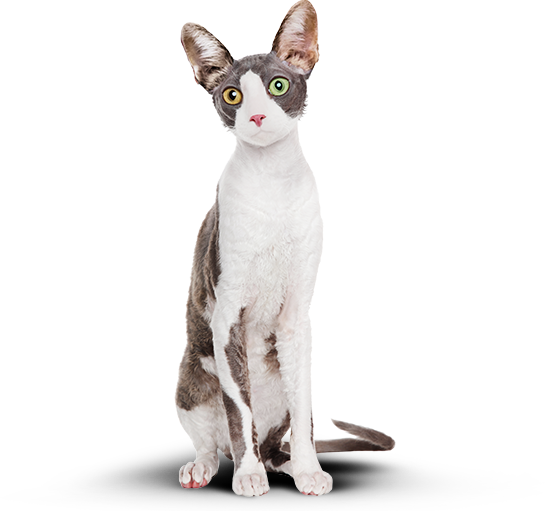
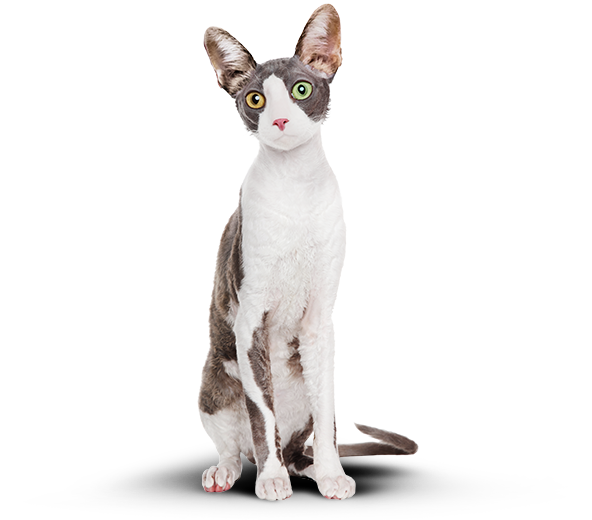
add slider

diff --git a/source/js/script.js b/source/js/script.js
@@ -1,6 +1,15 @@
-let mainHeader = document.querySelector('.main-header')
-let mainNav = document.querySelector('.main-nav');
-let navToggle = document.querySelector('.main-nav__toggle');
+const mainHeader = document.querySelector('.main-header')
+const mainNav = document.querySelector('.main-nav');
+const navToggle = document.querySelector('.main-nav__toggle');
+const prevButton = document.querySelector('.example__range-label-name-prev');
+const nextButton = document.querySelector('.example__range-label-name-next');
+const imgSkinnyCat = document.querySelector('.example__range-img-skinny');
+const imgFatCat = document.querySelector('.example__range-img-fat');
+const exampleRangeBar = document.querySelector('#exampleRangeBar');
+const exampleRangeBarInner = document.querySelector('.example__range-bar-inner');
+
+
+
 
 mainHeader.classList.remove('main-header--nojs');
 console.log(window.innerWidth);
@@ -20,3 +29,62 @@ navToggle.addEventListener('click', (e) => {
     mainNav.classList.add('main-nav--closed');
   }
 })
+
+if (window.innerWidth < 768) {
+  nextButton.addEventListener('click', () => {
+    imgSkinnyCat.classList.add('example__range-img-skinny--visible');
+    imgFatCat.classList.add('example__range-img-fat--hidden');
+    exampleRangeBarInner.style.marginLeft = 'auto';
+
+  })
+  prevButton.addEventListener('click', () => {
+    imgSkinnyCat.classList.remove('example__range-img-skinny--visible');
+    imgFatCat.classList.remove('example__range-img-fat--hidden');
+    exampleRangeBarInner.style.marginLeft = '6px';
+  })
+
+}
+// else  {
+//   nextButton.addEventListener('click', () => {
+//     imgSkinnyCat.classList.remove('example__range-img-skinny--hidden');
+//     imgSkinnyCat.classList.add('example__range-img-skinny--visible');
+//     imgFatCat.classList.remove('example__range-img-fat--visible');
+//     imgFatCat.classList.add('example__range-img-fat--hidden');
+//   })
+//   prevButton.addEventListener('click', () => {
+//     imgSkinnyCat.classList.remove('example__range-img-skinny--visible');
+//     imgSkinnyCat.classList.add('example__range-img-skinny--hidden');
+//     imgFatCat.classList.remove('example__range-img-fat--hidden');
+//     imgFatCat.classList.add('example__range-img-fat--visible');
+//   })
+// }
+
+
+if (window.innerWidth >= 768) {
+  while (exampleRangeBar.firstChild) {
+    exampleRangeBar.removeChild(exampleRangeBar.firstChild);
+  }
+
+  noUiSlider.create(exampleRangeBar, {
+    range: {
+      min: 0,
+      max: 100,
+    },
+    start: 50,
+    step: 1,
+    connect: 'lower',
+  });
+
+  exampleRangeBar.noUiSlider.on('update', function (values, handle) {
+    // console.log(values);
+    // console.log(handle);
+    console.log(values[handle]);
+    const percentOfVisiblePartLeft = 16 + parseInt(values[handle], 10) * 5.92;
+    const percentOfVisiblePartRight = 16 + 592 - parseInt(values[handle], 10) * 5.92;
+    imgSkinnyCat.style.width = `${percentOfVisiblePartRight}px`;
+    imgFatCat.style.width = `${percentOfVisiblePartLeft}px`;
+
+    console.log('percentOfVisiblePartLeft', percentOfVisiblePartLeft);
+    console.log('percentOfVisiblePartRight', percentOfVisiblePartRight);
+  });
+}

diff --git a/source/sass/blocks/example.scss b/source/sass/blocks/example.scss
@@ -106,10 +106,19 @@
 
 .example__range-img-fat {
   display: block;
+
+  &--hidden {
+    display: none;
+  }
 }
 
 .example__range-img-skinny {
   display: none;
+
+  &--visible {
+    display: block;
+    height: 232px;
+  }
 }
 
 .example__range-wrapper {
@@ -285,7 +294,7 @@
   .example__range-img-fat {
     display: block;
     width: 296px;
-    height: 96%;
+    height: 100%;
     object-fit: cover;
     object-position: left;
   }
@@ -293,9 +302,9 @@
   .example__range-img-skinny {
     display: block;
     width: 296px;
-    height: 98%;
+    height: 100%;
     object-fit: cover;
-    object-position: 100% 4px;
+    object-position: right;
   }
 
   .example__range-label-name-prev,
@@ -354,6 +363,57 @@
       border: 1px solid $basic_green;
     }
   }
+
+  .example__range-bar .noUi-handle {
+    position: relative;
+    display: block;
+    padding: 0;
+    width: 34px;
+    height: 34px;
+    box-sizing: border-box;
+    border-radius: 50%;
+    background-color: $white;
+    border: 1px solid $basic_grey;
+    box-shadow: 0 1px 3px 0 rgba(0, 0, 0, 0.16);
+    cursor: pointer;
+    top: -16px;
+    right: -25px;
+
+    &::before {
+      content: "";
+      position: absolute;
+      width: 8px;
+      height: 8px;
+      border-radius: 50%;
+      top: 12px;
+      left: 12px;
+      background-color: $basic_green;
+    }
+
+    &::after {
+      display: none;
+    }
+
+    &:hover {
+      box-shadow: 0 2px 4px 0 rgba(0, 0, 0, 0.19);
+    }
+
+    &:active {
+      box-shadow: 0 3px 5px 0 rgba(0, 0, 0, 0.2);
+      border: 1px solid $basic_green;
+    }
+  }
+
+  .example__range-bar .noUi-connect {
+    background-color: transparent;
+  }
+}
+
+.example__range-bar .noUi-connects {
+  height: 6px;
+  width: 426px;
+  background-color: $special_grey;
+  border-radius: 6px;
 }
 
 @media (min-width: $desktop-width) {

diff --git a/source/index.html b/source/index.html
@@ -8,6 +8,7 @@
   <link rel="icon" href="img/favicons/icon.svg" type="image/svg+xml">
   <link rel="apple-touch-icon" href="img/favicons/apple-icon.png">
   <link rel="manifest" href="manifest.webmanifest">
+  <link rel="stylesheet" href="https://unpkg.com/nouislider@14.6.3/distribute/nouislider.min.css">
   <link rel="stylesheet" href="css/style.min.css">
   <link rel="preload" href="css/style.min.css" as="style">
   <link rel="preload" href="img/logo-mobile.svg" as="image">
@@ -167,7 +168,7 @@
           <div class="example__range-wrapper">
             <button class="example__range-label-name-prev" type="button">было
             </button>
-            <div class="example__range-bar">
+            <div id ="exampleRangeBar" class="example__range-bar">
               <div class="example__range-bar-inner">
                 <button class="example__range-toggle " type="button">
                   <span class="visually-hidden">Изменить степень упитанности</span>
@@ -242,6 +243,7 @@
     </div>
   </div>
 </footer>
+<script src="https://unpkg.com/nouislider@14.6.3/distribute/nouislider.min.js"></script>
 <script src="js/script.js" async></script>
 </body>
 </html>
